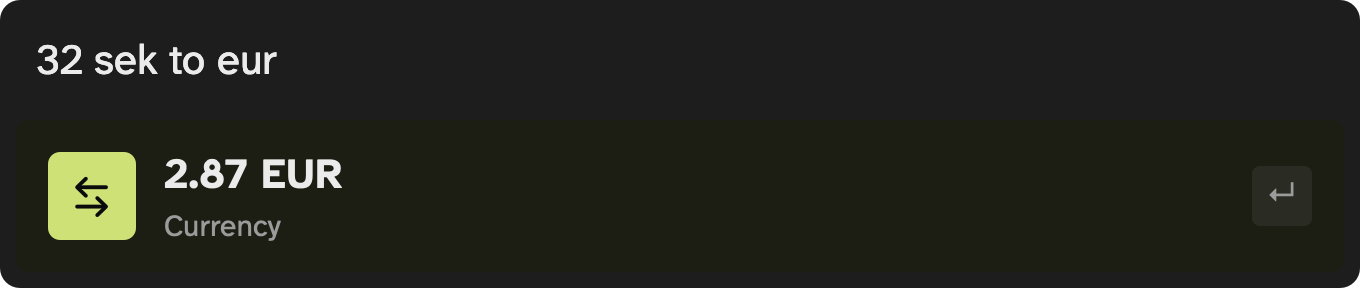
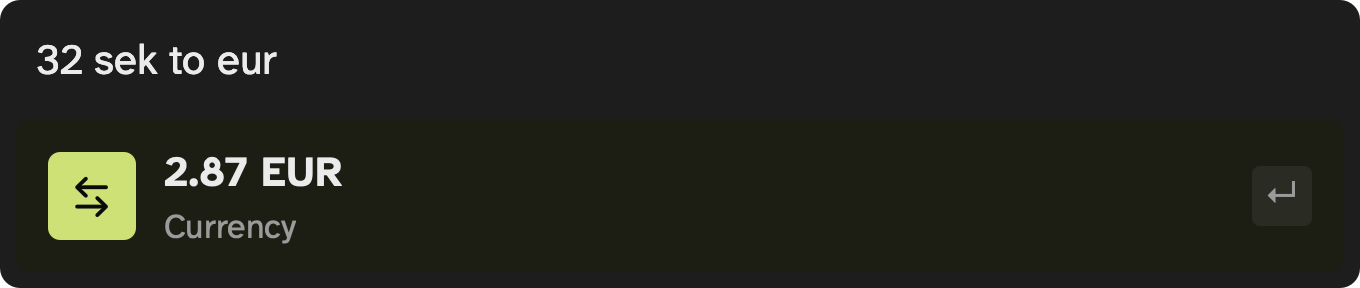
Give the homepage nav its own row and add a query type role
The homepage nav sat at the hero's bottom edge. The strike's height
follows the logo, so at some widths the links landed on the poison bar.
The nav now has its own row above the logo at every width. The studio
`label` role it uses grows from 15px to 17px, the body size.

The new interface role `query` (Atkinson 400, 21px, leading 1.25) is
for the query in a launcher or command menu. Caster takes its query
from it. Its rows and answer detail take the `body` size, since a
launcher sits alone on the desktop. Forge's and Caster's token copies
are synced, and the two card captures are rendered again.

Changed region(s): [[0.1235, 0.5312, 0.2471, 0.6562], [0.1235, 0.75, 0.2162, 0.8438], [0.9265, 0.6562, 0.9574, 0.6875]]

diff --git a/apps/site/home.css b/apps/site/home.css
@@ -2,7 +2,8 @@
 .hero { position: relative; overflow: hidden; }
 .splash { margin: 0; padding: clamp(1.5rem, 3vw, 2.25rem) var(--gutter); }
 .splash svg { display: block; width: clamp(18rem, 42vw, 36rem); max-width: 100%; height: auto; overflow: visible; }
-.home-nav { position: absolute; right: var(--gutter); bottom: clamp(1.5rem, 3vw, 2.25rem); display: flex; flex-wrap: wrap; align-items: center; gap: 0.5rem 1.75rem; font-size: var(--type-label-size); font-weight: var(--type-label-weight); line-height: var(--type-label-leading); letter-spacing: var(--type-label-tracking); }
+/* The nav has its own row above the logo, so the strike never runs behind it. */
+.home-nav { display: flex; flex-wrap: wrap; justify-content: flex-end; align-items: center; gap: 0.5rem 1.75rem; padding: clamp(1rem, 2vw, 1.5rem) var(--gutter) 0; font-size: var(--type-label-size); font-weight: var(--type-label-weight); line-height: var(--type-label-leading); letter-spacing: var(--type-label-tracking); }
 .home-nav a { padding-block: 0.4rem; color: var(--muted); }
 .home-nav a:hover { color: var(--fg); text-decoration: underline; text-underline-offset: 0.22em; }
 .page-width { width: min(80rem, calc(100% - var(--gutter) * 2)); margin-inline: auto; }
@@ -89,7 +90,7 @@ kbd { font-family: var(--font-reading); font-size: var(--type-ui-small-size); fo
   .product-head { min-height: 0; }
 }
 @media (max-width: 700px) {
-  .home-nav { position: static; padding: 0 var(--gutter) 0.75rem; gap: 0.5rem 1.5rem; }
+  .home-nav { justify-content: flex-start; gap: 0.5rem 1.5rem; }
 }
 @media (max-width: 480px) {
   .capture-stage { padding: 16px; }

diff --git a/apps/caster/Sources/VillainCaster/Design/type.swift b/apps/caster/Sources/VillainCaster/Design/type.swift
@@ -18,10 +18,11 @@ enum TypeTokens {
   static let displayTitle = Role(face: display, weight: 700, size: 56, lineHeight: 1.1, trackingEm: 0)
   static let headline = Role(face: display, weight: 700, size: 34, lineHeight: 1.18, trackingEm: 0)
   static let title = Role(face: reading, weight: 700, size: 21, lineHeight: 1.25, trackingEm: 0)
-  static let label = Role(face: reading, weight: 700, size: 15, lineHeight: 1.2, trackingEm: 0.01)
+  static let label = Role(face: reading, weight: 700, size: 17, lineHeight: 1.2, trackingEm: 0.01)
   static let body = Role(face: reading, weight: 400, size: 17, lineHeight: 1.6, trackingEm: 0)
   static let small = Role(face: reading, weight: 400, size: 14, lineHeight: 1.5, trackingEm: 0)
   static let code = Role(face: mono, weight: 400, size: 14, lineHeight: 1.6, trackingEm: 0)
+  static let query = Role(face: reading, weight: 400, size: 21, lineHeight: 1.25, trackingEm: 0)
   static let ui = Role(face: reading, weight: 400, size: 14, lineHeight: 1.45, trackingEm: 0)
   static let uiSmall = Role(face: reading, weight: 400, size: 13, lineHeight: 1.4, trackingEm: 0)
   static let control = Role(face: reading, weight: 600, size: 13, lineHeight: 1, trackingEm: 0)

diff --git a/design/tokens/type.swift b/design/tokens/type.swift
@@ -18,10 +18,11 @@ enum TypeTokens {
   static let displayTitle = Role(face: display, weight: 700, size: 56, lineHeight: 1.1, trackingEm: 0)
   static let headline = Role(face: display, weight: 700, size: 34, lineHeight: 1.18, trackingEm: 0)
   static let title = Role(face: reading, weight: 700, size: 21, lineHeight: 1.25, trackingEm: 0)
-  static let label = Role(face: reading, weight: 700, size: 15, lineHeight: 1.2, trackingEm: 0.01)
+  static let label = Role(face: reading, weight: 700, size: 17, lineHeight: 1.2, trackingEm: 0.01)
   static let body = Role(face: reading, weight: 400, size: 17, lineHeight: 1.6, trackingEm: 0)
   static let small = Role(face: reading, weight: 400, size: 14, lineHeight: 1.5, trackingEm: 0)
   static let code = Role(face: mono, weight: 400, size: 14, lineHeight: 1.6, trackingEm: 0)
+  static let query = Role(face: reading, weight: 400, size: 21, lineHeight: 1.25, trackingEm: 0)
   static let ui = Role(face: reading, weight: 400, size: 14, lineHeight: 1.45, trackingEm: 0)
   static let uiSmall = Role(face: reading, weight: 400, size: 13, lineHeight: 1.4, trackingEm: 0)
   static let control = Role(face: reading, weight: 600, size: 13, lineHeight: 1, trackingEm: 0)

diff --git a/apps/site/index.html b/apps/site/index.html
@@ -22,17 +22,17 @@
 <body>
   <a class="skip" href="#products">Skip to the tools</a>
   <header class="hero" aria-label="Code Villain">
-      <h1 class="splash">
-        <svg viewBox="10 10 327.48 51.58" role="img" aria-label="Code Villain">
-          <use href="../../brand/mark/logo-home.svg#homepage-logo"/>
-        </svg>
-      </h1>
     <nav class="home-nav" aria-label="Main">
       <a href="#forge">Forge</a>
       <a href="#layer">Layer</a>
       <a href="#caster">Caster</a>
       <a href="blog/">The log</a>
     </nav>
+      <h1 class="splash">
+        <svg viewBox="10 10 327.48 51.58" role="img" aria-label="Code Villain">
+          <use href="../../brand/mark/logo-home.svg#homepage-logo"/>
+        </svg>
+      </h1>
   </header>
   <main>
     <div class="intro page-width">

diff --git a/apps/caster/Sources/VillainCaster/PanelController.swift b/apps/caster/Sources/VillainCaster/PanelController.swift
@@ -12,9 +12,9 @@ private let rowContentInset: CGFloat = 10
 private let iconSize: CGFloat = 22
 /// An NSTextField draws its text 2pt inside its frame.
 private let inputSidePadding: CGFloat = listInset + rowContentInset - 2
-/// The query at the title size, rows at the body size: read at a glance.
-private let inputFont = Nightshade.font(TypeTokens.ui, size: TypeTokens.title.size)
-private let rowFont = Nightshade.font(TypeTokens.ui, size: TypeTokens.body.size)
+/// The query in its role; rows at the body size (brand/type.md).
+private let inputFont = Nightshade.font(TypeTokens.query)
+private let rowFont = Nightshade.font(TypeTokens.body)
 private let screenshotPadding: CGFloat = 48
 
 /// The panel itself: a solid `dialog` tone with `radius-lg` corners. No

diff --git a/apps/forge/apps/web/src/design/type.css b/apps/forge/apps/web/src/design/type.css
@@ -20,7 +20,7 @@
   --type-title-weight: 700;
   --type-title-leading: 1.25;
 
-  --type-label-size: 0.9375rem;
+  --type-label-size: 1.0625rem;
   --type-label-weight: 700;
   --type-label-leading: 1.2;
   --type-label-tracking: 0.01em;
@@ -37,6 +37,10 @@
   --type-code-size: 0.875rem;
   --type-code-weight: 400;
   --type-code-leading: 1.6;
+
+  --type-query-size: 1.3125rem;
+  --type-query-weight: 400;
+  --type-query-leading: 1.25;
 
   --type-ui-size: 0.875rem;
   --type-ui-weight: 400;

diff --git a/design/tokens/type.css b/design/tokens/type.css
@@ -20,7 +20,7 @@
   --type-title-weight: 700;
   --type-title-leading: 1.25;
 
-  --type-label-size: 0.9375rem;
+  --type-label-size: 1.0625rem;
   --type-label-weight: 700;
   --type-label-leading: 1.2;
   --type-label-tracking: 0.01em;
@@ -37,6 +37,10 @@
   --type-code-size: 0.875rem;
   --type-code-weight: 400;
   --type-code-leading: 1.6;
+
+  --type-query-size: 1.3125rem;
+  --type-query-weight: 400;
+  --type-query-leading: 1.25;
 
   --type-ui-size: 0.875rem;
   --type-ui-weight: 400;

diff --git a/apps/caster/Sources/VillainCaster/AnswerCard.swift b/apps/caster/Sources/VillainCaster/AnswerCard.swift
@@ -14,7 +14,7 @@ final class AnswerCard: NSView {
     private static let tile: CGFloat = 44
     private static let key: CGFloat = 30
     private static let valueFont = Nightshade.font(TypeTokens.title)
-    private static let detailFont = Nightshade.font(TypeTokens.ui, size: 15)
+    private static let detailFont = Nightshade.font(TypeTokens.body)
 
     func configure(with answer: Answer) {
         self.answer = answer

diff --git a/apps/caster/AGENTS.md b/apps/caster/AGENTS.md
@@ -9,7 +9,7 @@ Caster wears Nightshade in night and day, following the system's appearance. Rea
 - `Sources/VillainCaster/Design/` holds copies of the generated Swift tokens. Never edit them. Change `design/tokens/*.json`, run `python3 build.py` there, then `make design` here.
 - `Nightshade.swift` turns the tokens into dynamic `NSColor`s and Atkinson fonts. Take colours, type, and radii from it. Don't use system label colours, system fonts, or hand-typed hex values.
 - `Resources/Fonts/` holds Atkinson Hyperlegible Next and its license, copied from `apps/site/assets/fonts`. `make app` bundles them, and `Nightshade.registerFonts()` loads them at launch.
-- The panel is a solid `dialog` tone with `radius-lg` corners: no glass, no dividers, no window shadow (it brings a light rim). Its layout is Forge's command menu (`apps/forge/apps/web/src/command-menu.tsx`) scaled up a step for the desktop: 680 wide, a 60pt input at 21pt (the title size), one-line 44pt rows at 17pt (the body size) in an 8pt inset. The active row is `fg` at `highlight-tint`. Keep the two in step.
+- The panel is a solid `dialog` tone with `radius-lg` corners: no glass, no dividers, no window shadow (it brings a light rim). Its layout is Forge's command menu (`apps/forge/apps/web/src/command-menu.tsx`) scaled up a step for the desktop: 680 wide, a 60pt input in the `query` role, one-line 44pt rows at the `body` size in an 8pt inset. The active row is `fg` at `highlight-tint`. Keep the two in step.
 - The menu bar glyph is the C from `brand/mark/caster.svg` with its strike, drawn in colour (see "Menu bar glyph" in `brand/mark/README.md`). If the mark changes, run `make design` and copy the new C path into `MenuBarIcon.swift`. Then run `make icon` for the app icon.
 
 `make design-check` writes nothing and fails if any copy has drifted from the vault. CI runs it.

diff --git a/brand/type.md b/brand/type.md
@@ -44,7 +44,7 @@ size. App windows are denser and use the interface roles.
 | display  | Grenze   | 700    | 36–56px  | 1.1     | Page and post titles.        |
 | headline | Grenze   | 700    | 28–34px  | 1.18    | Section titles.              |
 | title    | Atkinson | 700    | 21px     | 1.25    | Card titles, product names.  |
-| label    | Atkinson | 700    | 15px     | 1.2     | Site buttons and nav.        |
+| label    | Atkinson | 700    | 17px     | 1.2     | Site buttons and nav.        |
 | body     | Atkinson | 400    | 17px     | 1.6     | Reading text. 66ch measure.  |
 | small    | Atkinson | 400    | 14px     | 1.5     | Captions, dates, meta.       |
 | code     | Mono     | 400    | 14px     | 1.6     | Code blocks, terminal text.  |
@@ -54,10 +54,14 @@ size. App windows are denser and use the interface roles.
 | Role     | Face     | Weight | Size | Leading | Use                                  |
 | -------- | -------- | ------ | ---- | ------- | ------------------------------------ |
 | title    | Atkinson | 700    | 21px | 1.25    | View and issue titles.               |
+| query    | Atkinson | 400    | 21px | 1.25    | The query in a launcher or command menu. |
 | ui       | Atkinson | 400    | 14px | 1.45    | Rows, nav, descriptions, fields.     |
 | ui-small | Atkinson | 400    | 13px | 1.4     | Meta, ids, counts, captions.         |
 | control  | Atkinson | 600    | 13px | 1       | Buttons, chips. Status pills at 700. |
 | ui-code  | Mono     | 400    | 13px | 1.6     | Code, terminal, ids in mono.         |
+
+A launcher sits alone on the desktop rather than inside an app, so
+Caster's rows and answers take the studio `body` size under its `query`.
 
 Grenze appears in an app only at 28px and up: the app's name in the
 sidebar, an empty state's headline.

diff --git a/design/components.md b/design/components.md
@@ -26,7 +26,7 @@ In app interfaces: 28px tall, the `control` type role (13px, 600),
 ### Studio call to action
 
 On the site, a main call to action uses the studio `label` role
-(15px, 700, leading 1.2, tracking 0.01em), with `0.7rem 1.15rem`
+(17px, 700, leading 1.2, tracking 0.01em), with `0.7rem 1.15rem`
 padding instead of a fixed height. It keeps the same primary colours,
 6px corners, and no border. Focus is a 2px `accent` ring, 3px out.
 No page uses it yet. Site navigation also uses `label`; it follows the
